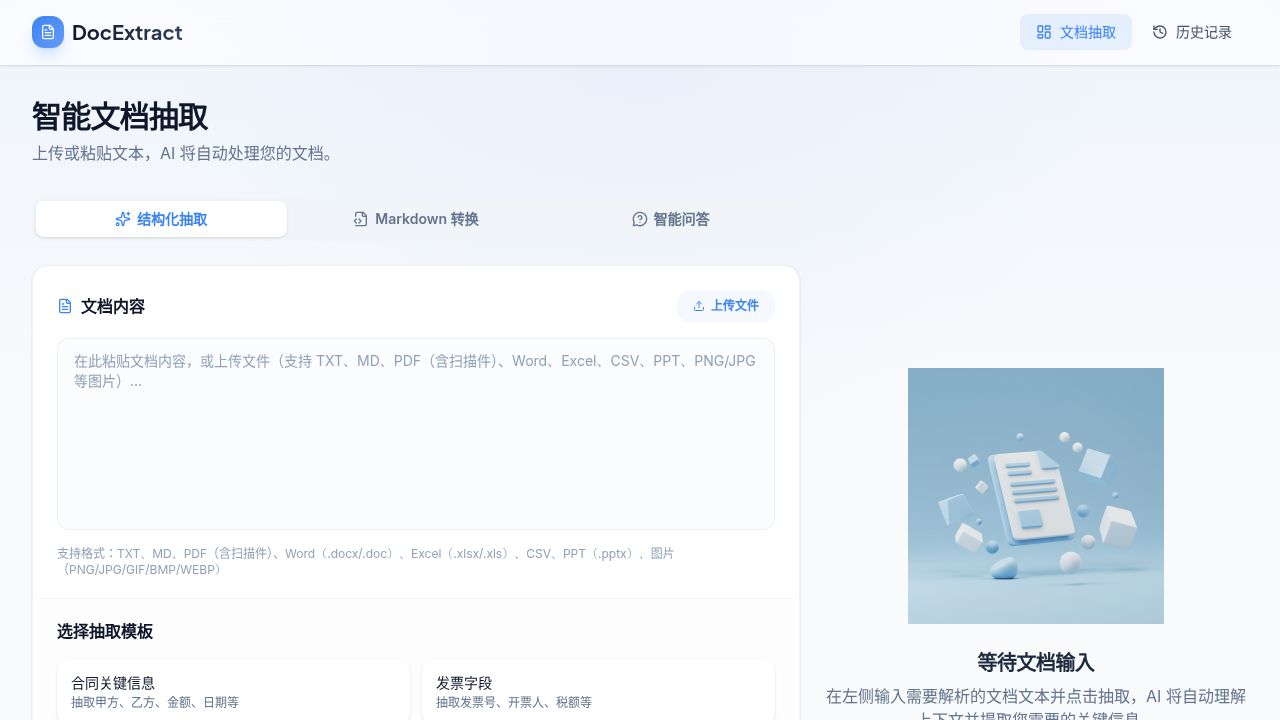
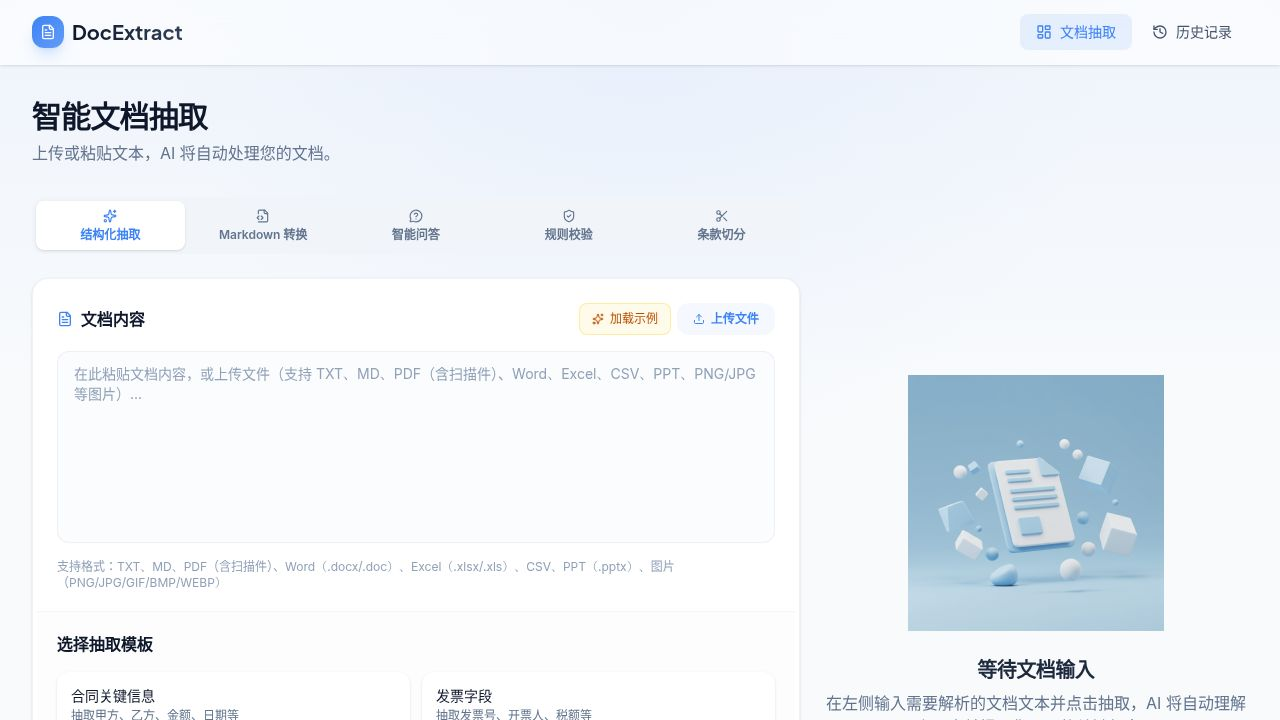
Add sample data for each mode to demonstrate functionality
Adds sample data constants and a "Load Sample" button to the home page, allowing users to quickly populate the text and question fields for each available mode.

Replit-Commit-Author: Agent
Replit-Commit-Session-Id: 03438bad-6145-4b6f-b101-33a7567ef4bc
Replit-Commit-Checkpoint-Type: full_checkpoint
Replit-Commit-Event-Id: 8f57af54-35b5-498d-b9d8-959cd9a39795
Replit-Commit-Screenshot-Url: https://storage.googleapis.com/screenshot-production-us-central1/0d7566b4-8e1a-493e-87fd-9672228c2e10/03438bad-6145-4b6f-b101-33a7567ef4bc/RHDzytA
Replit-Helium-Checkpoint-Created: true

diff --git a/artifacts/doc-extractor/src/pages/home.tsx b/artifacts/doc-extractor/src/pages/home.tsx
@@ -192,6 +192,184 @@ async function extractInputFromFile(file: File, forMarkdown = false): Promise<Ex
 
 type AppMode = "extract" | "markdown" | "qa" | "validate" | "segment";
 
+const SAMPLE_DATA: Record<AppMode, { text: string; question?: string; template?: ExtractRequestTemplate }> = {
+  extract: {
+    template: "contract",
+    text: `技术服务合同
+
+合同编号：JS-2024-0318-001
+签订地点：北京市朝阳区
+
+甲方（委托方）：北京星辰科技有限公司
+法定代表人：王建国
+地址：北京市朝阳区科技路88号星辰大厦12层
+联系电话：010-88886666
+
+乙方（服务方）：上海慧算数据服务有限公司
+法定代表人：李晓梅
+地址：上海市浦东新区张江高科技园区B栋506室
+联系电话：021-55557777
+
+一、服务内容
+乙方为甲方提供企业数据分析平台的开发与部署服务，具体包括：数据采集模块、可视化报表系统及API接口开发，共计3个功能模块。
+
+二、合同金额
+本合同总金额为人民币叁拾伍万元整（¥350,000.00），含税。
+
+三、付款方式
+合同签订后7个工作日内，甲方支付首付款人民币壹拾万元整（¥100,000.00）；项目验收通过后15个工作日内，甲方支付尾款人民币贰拾伍万元整（¥250,000.00）。
+
+四、服务期限
+本合同服务期限自2024年4月1日起至2024年9月30日止，共6个月。
+
+五、违约责任
+任何一方未按约定履行义务，须向对方支付合同总金额10%的违约金，即人民币叁万伍仟元整（¥35,000.00）。
+
+甲方代表（签字）：________________　　日期：2024年3月18日
+乙方代表（签字）：________________　　日期：2024年3月18日`,
+  },
+  markdown: {
+    text: `季度销售数据分析报告
+报告期间：2024年第一季度（1月—3月）
+编制部门：商务数据中心
+
+一、核心业绩指标
+
+本季度总销售额：¥12,486,000
+同比增长：+23.7%
+环比增长：+8.2%
+新签客户数：147家
+客户留存率：91.3%
+
+二、各区域销售数据汇总
+
+区域　　 | 销售额（万元）| 同比增长 | 完成率 | 重点客户数
+华北区　 |     3,420     |  +31.2% |  108% |    34
+华东区　 |     4,158     |  +18.6% |   96% |    51
+华南区　 |     2,730     |  +27.4% |  103% |    28
+西部区　 |     1,080     |  +15.1% |   89% |    19
+海外区　 |     1,098     |  +44.8% |  115% |    15
+合计　　 |    12,486     |  +23.7% |  102% |   147
+
+三、产品线销售占比
+
+1. 企业SaaS平台：占比42%，销售额¥5,244,000
+2. 数据分析服务：占比28%，销售额¥3,496,000
+3. 定制开发项目：占比19%，销售额¥2,372,000
+4. 技术培训课程：占比11%，销售额¥1,374,000
+
+四、问题与改进建议
+
+西部区完成率偏低（89%），建议增配销售人员，重点开发成都、西安市场；
+海外区增速最快，应加大资源投入，计划Q2增设新加坡办事处。`,
+  },
+  qa: {
+    text: `劳动合同
+
+甲方（用人单位）：深圳市未来智造科技股份有限公司
+统一社会信用代码：91440300XXXXXXXX1K
+地址：深圳市南山区科技园南区深南大道9988号10层
+
+乙方（劳动者）：陈雨晴
+身份证号码：440301199506150022
+联系电话：138-0755-8899
+家庭住址：深圳市宝安区新安街道宝民一路XX号
+
+一、劳动合同期限
+本合同为固定期限劳动合同，合同期限为3年，自2024年3月1日起至2027年2月28日止。其中试用期3个月，即2024年3月1日至2024年5月31日。
+
+二、工作岗位
+乙方担任高级产品经理岗位，工作地点为深圳市南山区科技园。
+
+三、劳动报酬
+（一）试用期月薪：人民币18,000元整。
+（二）转正后月薪：人民币25,000元整，另享有季度绩效奖金，绩效奖金按公司考核制度执行。
+（三）甲方于每月10日以银行转账方式支付上月工资。
+
+四、工作时间与休息休假
+乙方执行标准工时制度，每日工作8小时，每周工作5天。法定节假日及年假按国家相关规定执行。乙方工龄满1年可享受5天带薪年假。
+
+五、社会保险
+甲方依法为乙方缴纳养老保险、医疗保险、失业保险、工伤保险及生育保险。
+
+六、保密与竞业限制
+乙方在职期间及离职后2年内不得从事与甲方存在竞争关系的业务，不得向第三方披露甲方商业机密。违反本条款须向甲方支付违约金人民币50,000元。`,
+    question: "试用期工资是多少？试用期结束后薪资如何变化？",
+  },
+  validate: {
+    text: `采购合同
+
+合同编号：CG-2024-0215
+
+甲方（买方）：成都绿洲贸易有限公司
+乙方（卖方）：广州华丰供应链有限公司
+
+一、采购内容
+甲方向乙方采购办公设备一批，含笔记本电脑50台、显示器80台，货物明细见附件一。
+
+二、合同金额
+本合同总价款为人民币伍拾万元整（¥280,000.00）。
+（注：大写金额与数字金额不符，请核查）
+
+三、交货期限
+乙方须于2024年1月15日前完成全部货物交付。
+（注：本合同签订日期为2024年2月15日，交货期早于签订日期）
+
+四、付款方式
+合同签订后，甲方预付货款30%，即人民币捌万肆仟元整（¥84,000.00）；货物验收合格后10日内付清余款。
+（注：30%×280,000=84,000，但大写为壹拾五万元）
+
+五、质量保证
+乙方保证所提供货物符合国家标准，质保期为货物验收之日起24个月。
+
+六、违约责任
+任何一方违约，须承担合同金额的15%作为违约金。
+
+甲方代表：________________
+乙方代表：________________`,
+  },
+  segment: {
+    text: `软件许可与服务协议
+
+甲方（许可方）：杭州云智软件科技有限公司
+乙方（被许可方）：重庆山城物流集团有限公司
+签订日期：2024年3月20日
+
+第一条　定义
+本协议中，"软件"指甲方开发的"云智运营管理系统"（版本号V3.2），包含源代码、目标代码、文档及相关更新；"许可"指甲方授予乙方使用软件的非独占性权利。
+
+第二条　许可授权
+甲方授予乙方在中华人民共和国境内，将软件用于乙方内部运营管理目的的非独占、不可转让的使用权。乙方不得将软件出租、出借、转让或分许可给任何第三方。
+
+第三条　付款条款
+乙方应于合同签订后5个工作日内支付首年许可费人民币叁拾万元整（¥300,000.00）；此后每年续费金额为首年许可费的85%，即人民币贰拾伍万伍仟元整（¥255,000.00）。
+
+第四条　实施与培训
+甲方负责在乙方指定地点完成软件的安装部署，并提供不少于5天的操作培训。首次安装调试期限为合同签订后30个自然日内完成。
+
+第五条　维护支持
+合同有效期内，甲方提供5×8小时电话技术支持及年度版本升级服务。严重故障（系统不可用）响应时间不超过4小时，一般故障响应时间不超过1个工作日。
+
+第六条　知识产权
+软件的全部知识产权归甲方所有。本协议不转让任何知识产权。乙方承认软件中包含甲方的商业秘密，有义务采取合理措施保护其保密性。
+
+第七条　违约与赔偿
+任何一方违反本协议，须在收到对方书面通知后15日内纠正。逾期未纠正的，违约方须支付守约方合同金额20%的违约金，并赔偿守约方因此遭受的实际损失。
+
+第八条　合同解除
+出现下列情形之一，任何一方可书面通知解除本协议：（一）对方严重违约且未在规定期限内纠正；（二）对方进入破产、清算程序；（三）因不可抗力致使合同目的无法实现。
+
+第九条　争议解决
+因本协议引起的任何争议，双方应首先友好协商；协商不成的，提交杭州仲裁委员会按其仲裁规则进行仲裁，仲裁裁决为终局裁决。
+
+第十条　附则
+本协议自双方签字盖章之日起生效，有效期3年。未尽事宜由双方协商补充，补充协议与本协议具有同等法律效力。
+
+甲方（盖章）：________________　　乙方（盖章）：________________
+授权代表签字：________________　　授权代表签字：________________`,
+  },
+};
+
 const MODES: { id: AppMode; label: string; icon: React.ReactNode }[] = [
   { id: "extract", label: "结构化抽取", icon: <Sparkles className="w-3.5 h-3.5" /> },
   { id: "markdown", label: "Markdown 转换", icon: <FileCode2 className="w-3.5 h-3.5" /> },
@@ -222,6 +400,20 @@ export default function Home() {
 
   const handleModeSwitch = (newMode: AppMode) => {
     setMode(newMode);
+    extractMutation.reset();
+    markdownMutation.reset();
+    qaMutation.reset();
+    validateMutation.reset();
+    segmentMutation.reset();
+  };
+
+  const handleLoadSample = () => {
+    const sample = SAMPLE_DATA[mode];
+    setImageInput(null);
+    setFileError(null);
+    setText(sample.text);
+    if (sample.question) setQuestion(sample.question);
+    if (sample.template) setTemplate(sample.template);
     extractMutation.reset();
     markdownMutation.reset();
     qaMutation.reset();
@@ -419,21 +611,30 @@ export default function Home() {
 
           <Card className="p-1">
             <div className="p-5 flex flex-col gap-4">
-              <div className="flex items-center justify-between">
-                <label className="font-semibold text-slate-900 flex items-center gap-2">
+              <div className="flex items-center justify-between gap-2">
+                <label className="font-semibold text-slate-900 flex items-center gap-2 shrink-0">
                   <FileText className="w-4 h-4 text-primary" />
                   文档内容
                 </label>
-                <Button
-                  variant="ghost"
-                  size="sm"
-                  className="h-8 text-xs text-primary bg-primary/5 hover:bg-primary/10"
-                  onClick={() => fileInputRef.current?.click()}
-                  disabled={isLoadingFile}
-                >
-                  <Upload className="w-3 h-3 mr-1.5" />
-                  {isLoadingFile ? "解析中..." : "上传文件"}
-                </Button>
+                <div className="flex items-center gap-1.5">
+                  <button
+                    onClick={handleLoadSample}
+                    className="h-8 px-3 text-xs font-medium text-amber-700 bg-amber-50 hover:bg-amber-100 border border-amber-200/70 rounded-lg transition-colors flex items-center gap-1.5"
+                  >
+                    <Sparkles className="w-3 h-3" />
+                    加载示例
+                  </button>
+                  <Button
+                    variant="ghost"
+                    size="sm"
+                    className="h-8 text-xs text-primary bg-primary/5 hover:bg-primary/10"
+                    onClick={() => fileInputRef.current?.click()}
+                    disabled={isLoadingFile}
+                  >
+                    <Upload className="w-3 h-3 mr-1.5" />
+                    {isLoadingFile ? "解析中..." : "上传文件"}
+                  </Button>
+                </div>
                 <input
                   type="file"
                   ref={fileInputRef}
